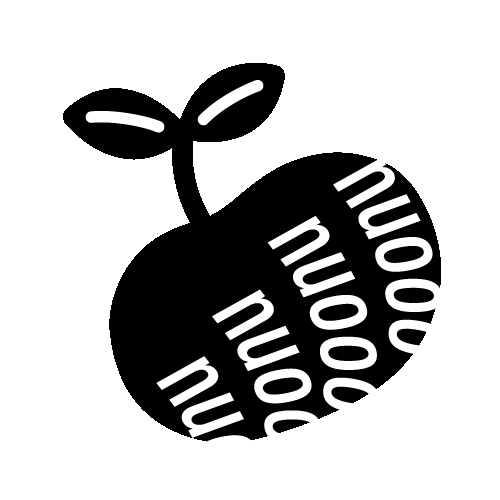
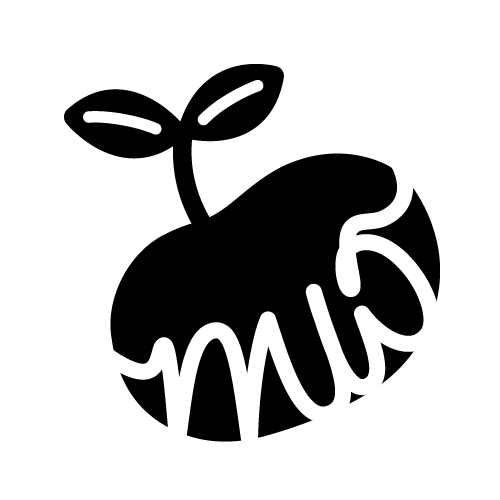
20241129

diff --git a/src/components/Loader.js b/src/components/Loader.js
@@ -1,10 +1,23 @@
 // src/components/Loader.js
-import React from 'react';
+import Lottie from 'lottie-web';
+import React, { useEffect, useState, useRef } from 'react';
 
 const Loader = () => {
+    useEffect(() => {
+        const ani = Lottie.loadAnimation({
+            container: document.getElementById("logo_box"),
+            renderer: 'svg',
+            loop: true,
+            autoplay: true,
+            path: 'nuo.json'
+        });
+        return () => ani.destroy();
+    }, []);
+
+
     return (
         <div className="loader">
-            <div className="spinner"></div>
+            <div id="logo_box"></div>
             <p>Loading...</p>
         </div>
     );

diff --git a/src/App.css b/src/App.css
@@ -1,4 +1,4 @@
-//Lenis需要使用的CSS
+/* Lenis需要使用的CSS */
 html.lenis, html.lenis body {
   height: auto;
 }
@@ -31,22 +31,4 @@ html.lenis, html.lenis body {
   justify-content: center;
   background-color: rgba(255, 255, 255, 0.9);
   z-index: 9999;
-}
-
-.spinner {
-  width: 50px;
-  height: 50px;
-  border: 5px solid #ccc;
-  border-top: 5px solid #3498db;
-  border-radius: 50%;
-  animation: spin 1s linear infinite;
-}
-
-@keyframes spin {
-  from {
-    transform: rotate(0deg);
-  }
-  to {
-    transform: rotate(360deg);
-  }
 }

diff --git a/src/App.js b/src/App.js
@@ -19,7 +19,7 @@ const App = () => {
   useEffect(() => {
     const timer = setTimeout(() => {
       setLoading(false);
-    }, 1000); // 模拟加载时间
+    }, 4000); // 模拟加载时间
 
     return () => clearTimeout(timer);
   }, []);
